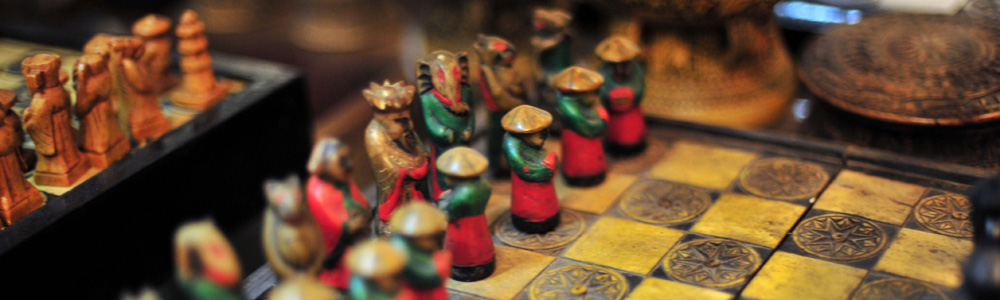
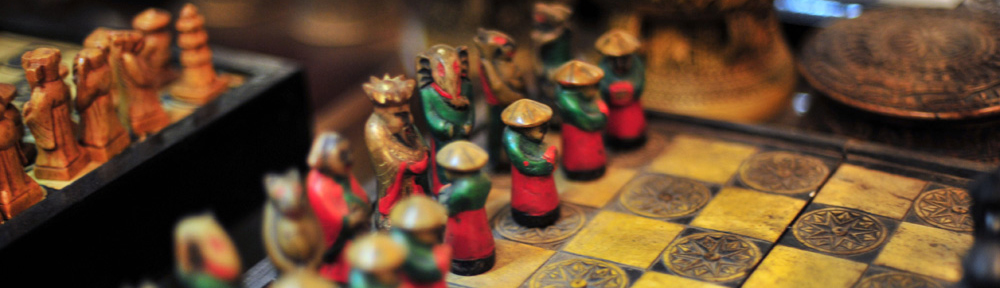
Twenty Eleven: adding RTL editor styles and tighter header height - see #17198
git-svn-id: http://svn.automattic.com/wordpress/trunk@17830 1a063a9b-81f0-0310-95a4-ce76da25c4cd

diff --git a/wp-content/themes/twentyeleven/style.css b/wp-content/themes/twentyeleven/style.css
@@ -474,7 +474,7 @@ a:hover {
 	z-index: 2;
 }
 #site-title {
-	padding: 4em 0 0;
+	padding: 3.65625em 0 0;
 }
 #site-title a {
 	color: #111;
@@ -486,7 +486,7 @@ a:hover {
 #site-description {
 	color: #7a7a7a;
 	font-size: 14px;
-	margin: 0 0 4em;
+	margin: 0 0 3.65625em;
 }
 #branding img {
 	height: auto;
@@ -578,7 +578,7 @@ a:hover {
 /* Search Form */
 #branding #searchform {
 	position: absolute;
-	top: 4.3em;
+	top: 3.8em;
 	right: 7.6%;
 	text-align: right;
 }
@@ -1468,6 +1468,10 @@ p img,
 	top: 7px;
 }
 .gallery-caption {
+}
+img#wpstats {
+    display: block;
+    margin: 0 auto 1.625em;
 }
 
 

diff --git a/wp-content/themes/twentyeleven/editor-style-rtl.css b/wp-content/themes/twentyeleven/editor-style-rtl.css
@@ -1,0 +1,23 @@
+/*
+Theme Name: Twenty Eleven
+*/
+/*
+Used to style the TinyMCE editor.
+*/
+html .mceContentBody{
+	direction:rtl;
+	unicode-bidi:embed;
+	float:right;
+}
+* {
+	font-family: Arial, Tahoma, sans-serif;
+}
+ul, ol {
+	margin: 0 2.5em 1.625em 0;
+}
+blockquote {
+	font-style: normal;
+}
+table {
+	text-align: right;
+}

diff --git a/wp-content/themes/twentyeleven/functions.php b/wp-content/themes/twentyeleven/functions.php
@@ -124,7 +124,7 @@ function twentyeleven_setup() {
 	// The height and width of your custom header. You can hook into the theme's own filters to change these values.
 	// Add a filter to twentyeleven_header_image_width and twentyeleven_header_image_height to change these values.
 	define( 'HEADER_IMAGE_WIDTH', apply_filters( 'twentyeleven_header_image_width', 1000 ) );
-	define( 'HEADER_IMAGE_HEIGHT', apply_filters( 'twentyeleven_header_image_height', 300 ) );
+	define( 'HEADER_IMAGE_HEIGHT', apply_filters( 'twentyeleven_header_image_height', 288 ) );
 
 	// We'll be using post thumbnails for custom header images on posts and pages.
 	// We want them to be 940 pixels wide by 198 pixels tall.
